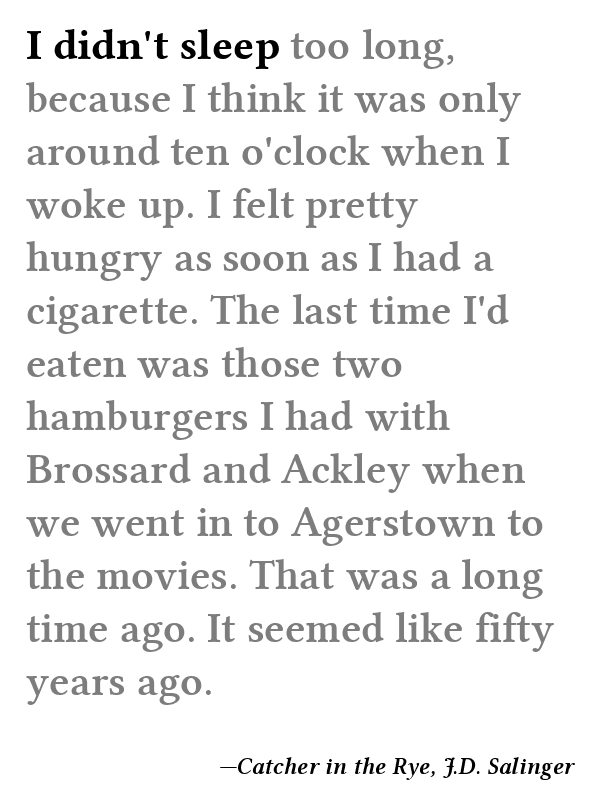
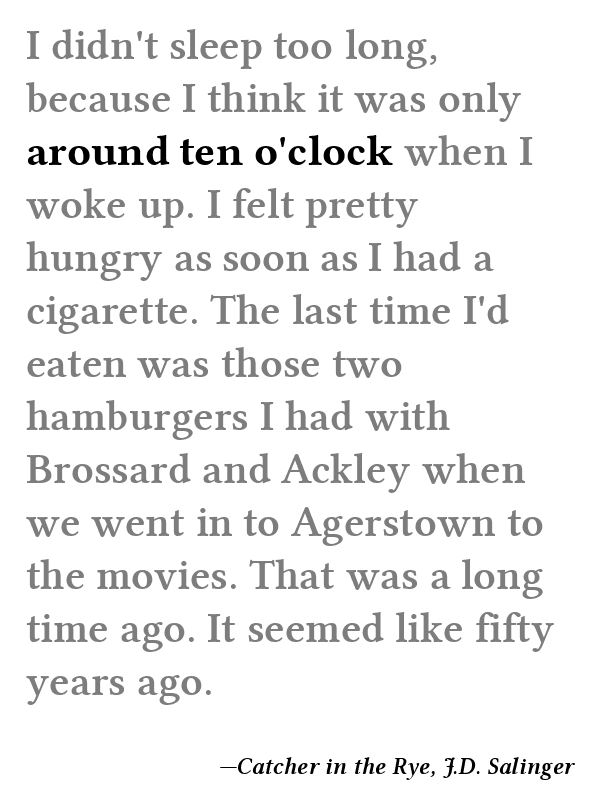
Fix broken image
Difference in single quote character caused the wrong words to be bolded in this image. Fixed source CSV and image, also removed some whitespace and commented out test code.

Changed region(s): [[0.03, 0.1562, 0.84, 0.2188], [0.03, 0.0312, 0.75, 0.0938], [0.87, 0.1562, 0.9, 0.2188]]

diff --git a/quote_to_image.php b/quote_to_image.php
@@ -33,10 +33,7 @@ if (($handle = fopen('litclock_annotated_improved.csv', 'r')) !== FALSE) {
         $quote = trim(preg_replace('/\s+/', ' ', $quote));
         $title = trim($data[3]);
         $author = trim($data[4]);
-        //echo $time.'|'.$quote.' - '.$author.' '.$title;
 
-
-         
         TurnQuoteIntoImage($time, $quote, $timestring, $title, $author);
 
     }
